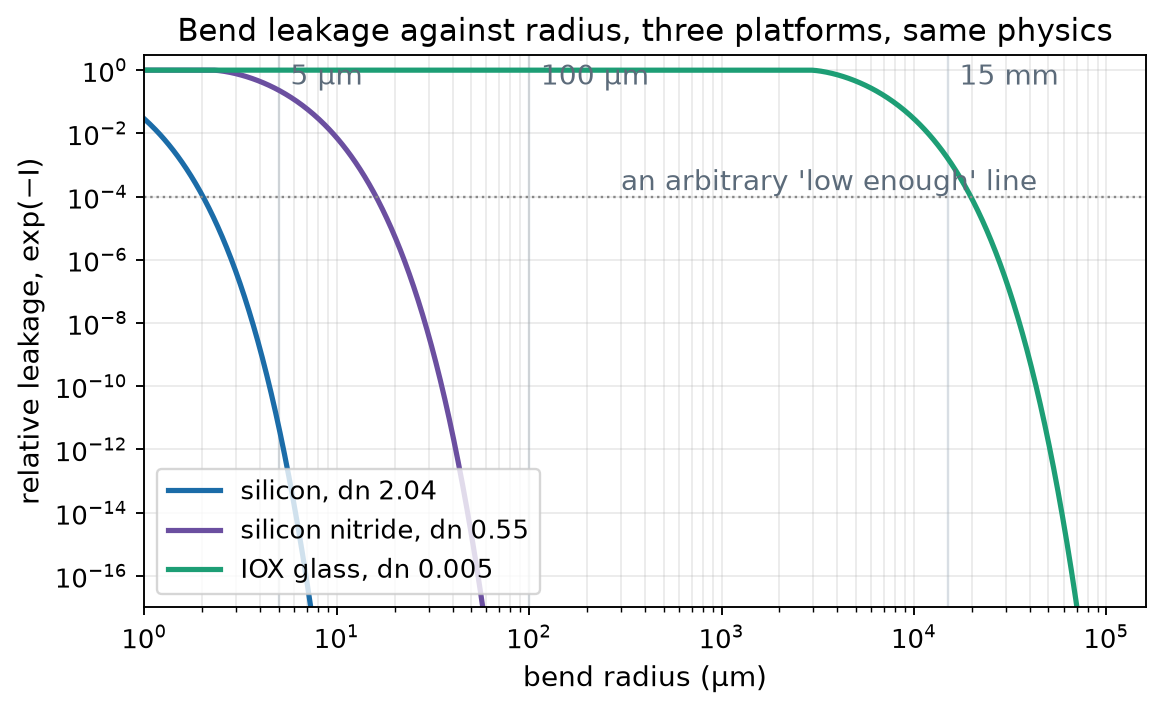
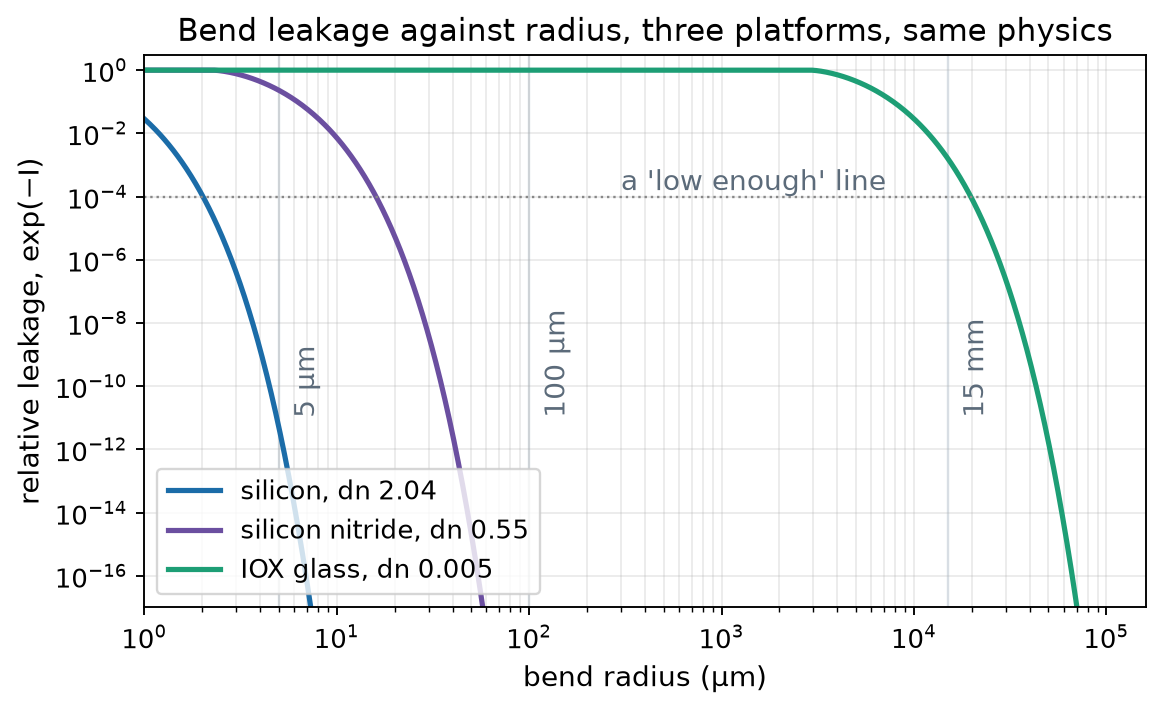
Phase-delay and bend-loss-curve figures: labels and legend clear of the curves

diff --git a/chain/figures.html b/chain/figures.html
@@ -58,7 +58,7 @@ anchor: <code>figures.html#name</code> jumps straight to it.</div>
 
 <h2>Foundations: light in matter</h2>
 <figure id="polarization-scene"><span class="fid">polarization-scene</span><img src="img/polarization-scene.svg?v=75dbcd41" alt=""><figcaption>The scene behind every equation: an atom with no light, the same atom with the light's field displacing its electron cloud, and every atom doing so at once. P is the polarization of the material; E is the field of the light itself.</figcaption></figure>
-<figure id="phase-delay"><span class="fid">phase-delay</span><img src="img/phase-delay.png?v=e06c6419" alt=""><figcaption>One thin layer of material. The re-radiated wave lags the incident wave by a quarter cycle; their sum peaks later. Accumulated over many layers, that retardation is the refractive index.</figcaption></figure>
+<figure id="phase-delay"><span class="fid">phase-delay</span><img src="img/phase-delay.png?v=0ddce039" alt=""><figcaption>One thin layer of material. The re-radiated wave lags the incident wave by a quarter cycle; their sum peaks later. Accumulated over many layers, that retardation is the refractive index.</figcaption></figure>
 <figure id="lighthouse"><span class="fid">lighthouse</span><img src="img/lighthouse.svg?v=1c2ca7ba" alt=""><figcaption>A pattern may outrun light. The spot sweeps faster than c for a large enough radius, but the light at A and at B are different photons that each travelled at c. Nothing crosses from A to B.</figcaption></figure>
 <figure id="lorentz"><span class="fid">lorentz</span><img src="img/lorentz.png?v=bae1e570" alt=""><figcaption>The bound electron as a driven damped oscillator. Left: its lag behind the driving field, from zero below resonance to half a cycle above. Right: the refractive index and absorption that lag produces.</figcaption></figure>
 <figure id="pendulum"><span class="fid">pendulum</span><img src="img/pendulum.png?v=a312d4c6" alt=""><figcaption>The same equation as a 2.5 m playground swing, solved in steady state. Below resonance it follows the hands; at resonance it lags a quarter cycle and the linear model exceeds its validity; far above it moves against the push.</figcaption></figure>
@@ -73,7 +73,7 @@ anchor: <code>figures.html#name</code> jumps straight to it.</div>
 <figure id="fiber-glass-joint"><span class="fid">fiber-glass-joint</span><img src="img/fiber-glass-joint.svg?v=1b68c294" alt=""><figcaption>The fiber butt-coupled to the polished glass edge through index-matching adhesive, and both modes end-on at the same scale. The mismatch alone costs 0.44 dB with no misalignment.</figcaption></figure>
 <figure id="bend-loss"><span class="fid">bend-loss</span><img src="img/bend-loss.svg?v=7f131f9c" alt=""><figcaption>A bend, and the same bend straightened by the conformal transformation. The tilted cladding index meets the mode's effective index at the caustic; between the core and the caustic is a barrier the light tunnels through.</figcaption></figure>
 <figure id="bend-in-context"><span class="fid">bend-in-context</span><img src="img/bend-in-context.svg?v=e9fb7375" alt=""><figcaption>A 15 mm bend at true scale, where the waveguide is thinner than the drawn line, with the caustic region magnified 250 times.</figcaption></figure>
-<figure id="bend-loss-curve"><span class="fid">bend-loss-curve</span><img src="img/bend-loss-curve.png?v=fb7a3bee" alt=""><figcaption>Relative leakage against bend radius for silicon, silicon nitride and ion-exchanged glass. Same physics, cliffs four orders of magnitude apart.</figcaption></figure>
+<figure id="bend-loss-curve"><span class="fid">bend-loss-curve</span><img src="img/bend-loss-curve.png?v=00399333" alt=""><figcaption>Relative leakage against bend radius for silicon, silicon nitride and ion-exchanged glass. Same physics, cliffs four orders of magnitude apart.</figcaption></figure>
 
 <h2>Stage 3: glass to silicon</h2>
 <figure id="handoff"><span class="fid">handoff</span><img src="img/handoff.svg?v=7ee56839" alt=""><figcaption>The scene: the ion-exchanged guide in the glass, the adhesive bondline, and the silicon taper of the face-down die. The mode starts in the glass and climbs into the silicon as the taper widens.</figcaption></figure>

diff --git a/chain/bend_loss.py b/chain/bend_loss.py
@@ -77,10 +77,10 @@ for c, col in ((SI, "#1b6ca8"), (SIN, "#6b4fa0"), (GLASS, "#1D9E75")):
     y = np.exp(-barrier(c, R))
     ax.loglog(R, np.clip(y, 1e-18, None), color=col, lw=2.2, label=c["name"])
 ax.axhline(1e-4, color="#888", ls=":", lw=1)
-ax.text(300, 1.6e-4, "an arbitrary 'low enough' line", color="#5c6b7a")
+ax.text(300, 1.6e-4, "a 'low enough' line", color="#5c6b7a")
 for x, lab in ((5, "5 µm"), (100, "100 µm"), (15000, "15 mm")):
     ax.axvline(x, color="#d8dee4", lw=1, zorder=0)
-    ax.text(x*1.15, 0.35, lab, color="#5c6b7a")
+    ax.text(x*1.18, 1e-11, lab, color="#5c6b7a", rotation=90, va="bottom")
 ax.set_xlim(1, 1.6e5); ax.set_ylim(1e-17, 3)
 ax.set_xlabel("bend radius (µm)"); ax.set_ylabel("relative leakage, exp(−I)")
 ax.set_title("Bend leakage against radius, three platforms, same physics")

diff --git a/chain/phase_delay.py b/chain/phase_delay.py
@@ -39,7 +39,7 @@ ax.set_xticklabels(["0", "π", "2π", "3π", "4π"])
 ax.set_xlabel("phase of the wave")
 ax.set_ylabel("electric field")
 ax.set_title("One thin layer of material: the sum lags the original", pad=10)
-ax.grid(alpha=.22); ax.legend(loc="lower right")
+ax.grid(alpha=.22); ax.legend(loc="upper center", bbox_to_anchor=(0.5, -0.22), ncol=1, frameon=False)
 fig.tight_layout()
 out = pathlib.Path(__file__).parent / "img" / "phase-delay.png"
 fig.savefig(out, bbox_inches="tight", facecolor="white")
